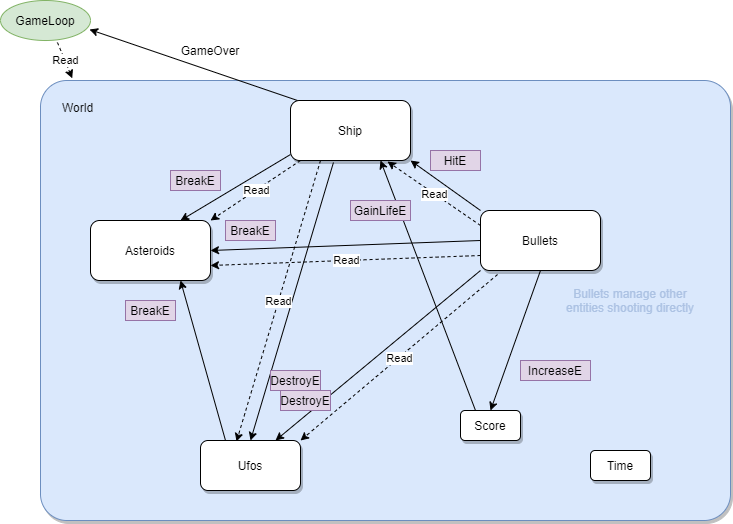
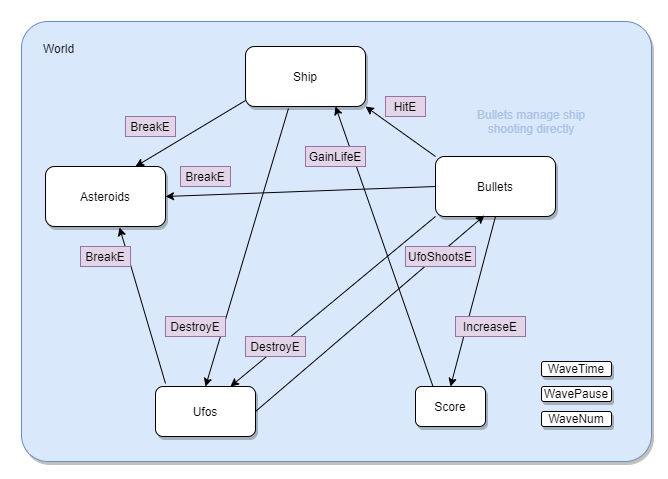
updating documentation

diff --git a/pure-asteroids/README.md b/pure-asteroids/README.md
@@ -3,14 +3,49 @@
 An attempt of making an Atari Asteroids clone
 without any fancy game dev oriented libraries
 
-main focuse here is to separate effects from data
-and keeping state variables relatively independent
-to allow potential paralelization
+Main focus here is to separate side effects from data
+transformation and keeping state variables relatively independent
+to allow potential paralelization.
 
-here's how the separate entity collections communicate together:
+The game is now in a "good enough" state for the purposes
+of my thesis.
+Howerever, there are several features that...
+## Would be nice
+- The actual parallelism
+- Ufos moving randomly along the y axis
+- Define classes for common operations
+- Wrap some of the things in Reader monad (like SDL.Renderer!)
+- **Lots more refactoring**
+- Tweaking the constants to make the behaviour more
+  true to the original
+- Change other minor behaviours that are different in my version
+  from the original
+
+## How it works
+The game world variable goes through 2 functions that alter it
+every frame / loop iteration: `processEvents` and `stepWorld`.
+
+`stepWorld` updates positions, reacts to keyboard input and generates `WorldEvents` that are then processed next frame
+by the `processEvents` function.
+
+`stepWorld` is decomposed into `step<EntityCollection>`
+functions that could run in parallel.
+For one entity from collection A to alter other from collection B,
+it must send a request in form of an event that will be processed
+next frame by the `process<EntityCollectionB>Events`.
+
+This way the functions for the individual entity collections
+could run in parallel with one sync point every frame, where
+the events are exchanged.
+
+`drawWorld` is separate and only reads the data, can't alter it.
+
+Here's how the separate entity collections communicate together:
 
 ![entity groups relationships](entity-relationships.png)
 
-And here are the states that the main game loop and the ship can be in:
+Here is a pseudo-state-machine of the main game loop (`LoopState`)
+and the ship (`ShipSate`):
+
 ![game loop state machine](gameloop-state-machine.png)
 
